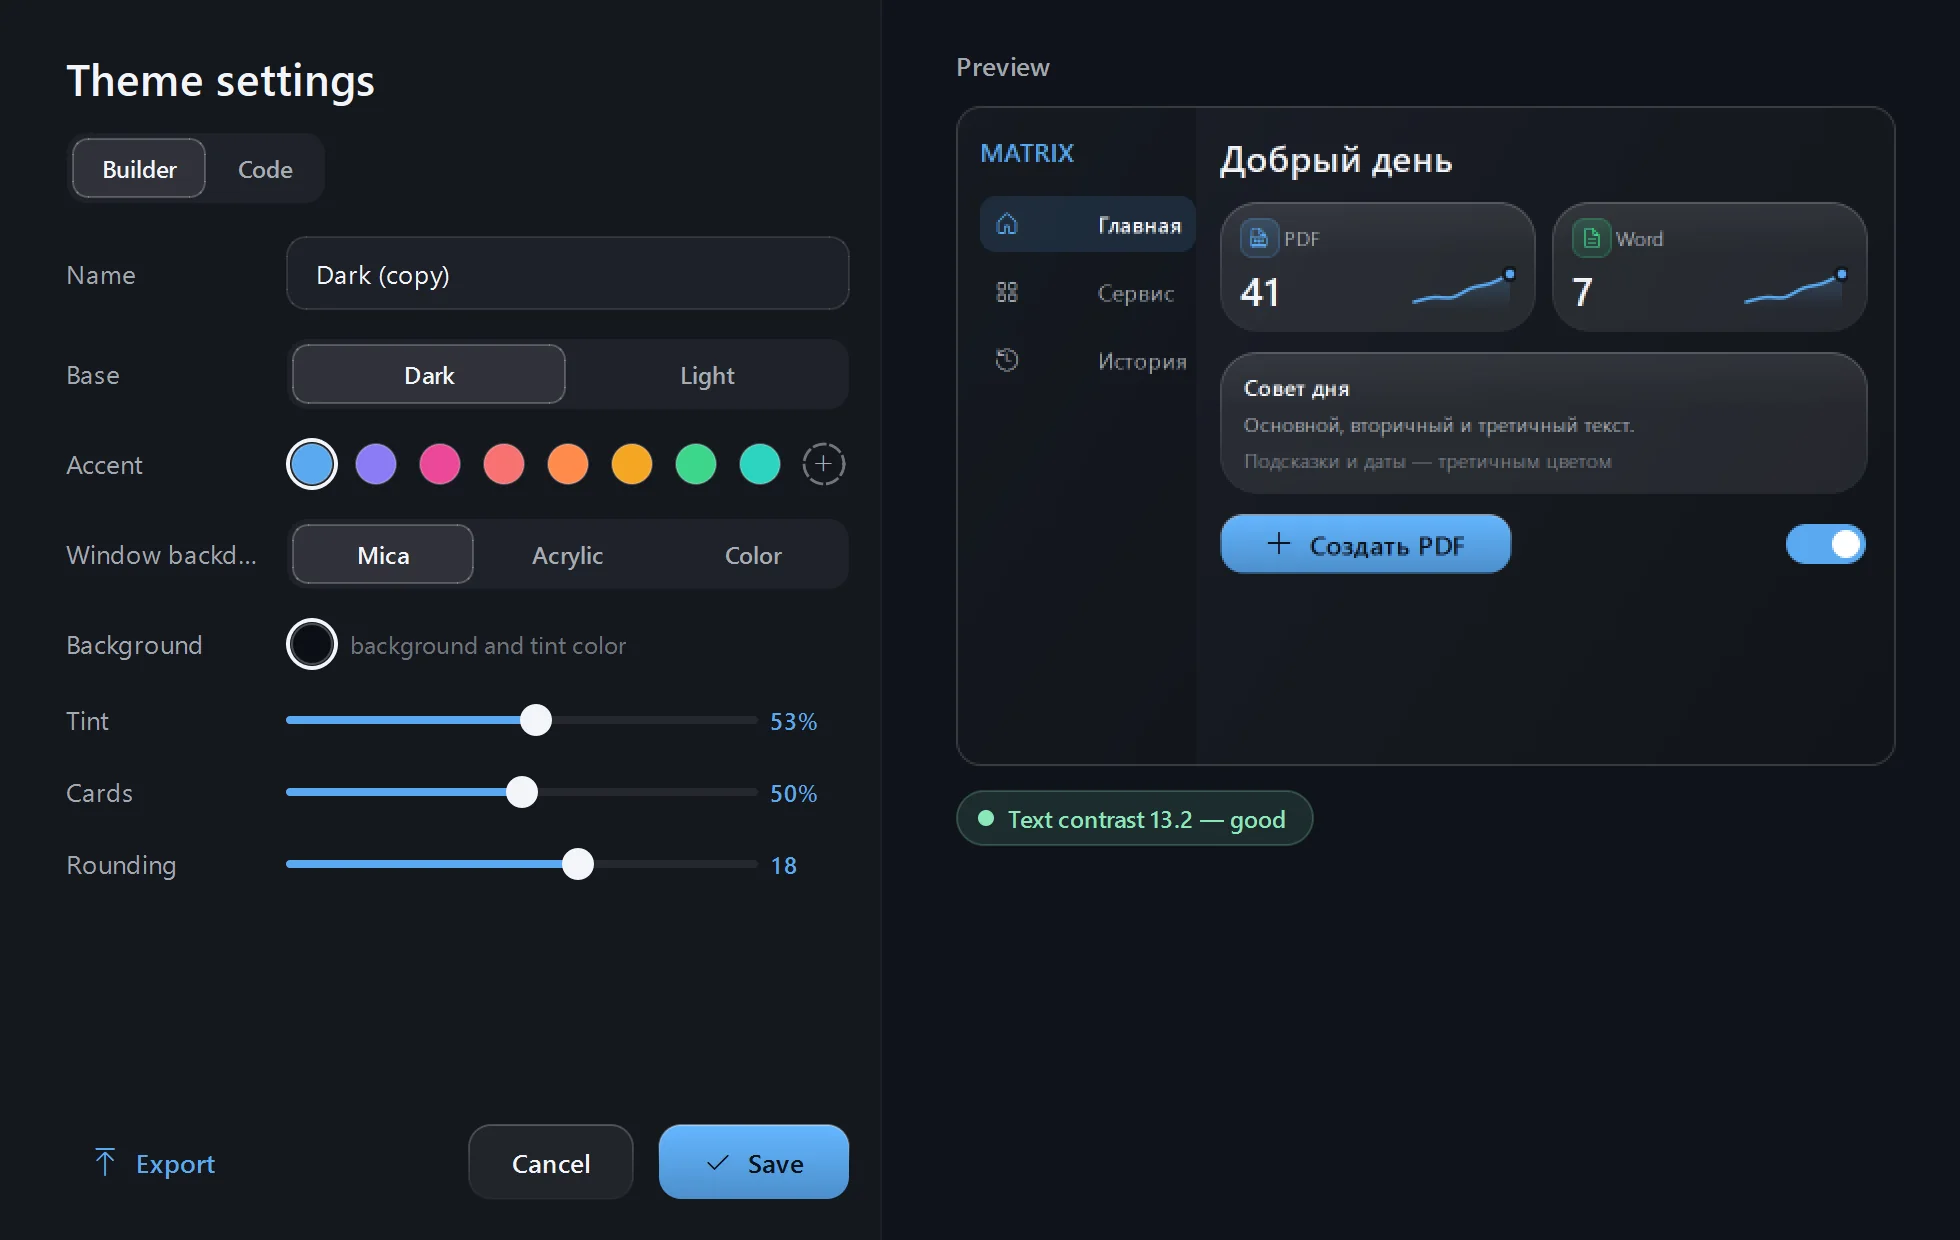
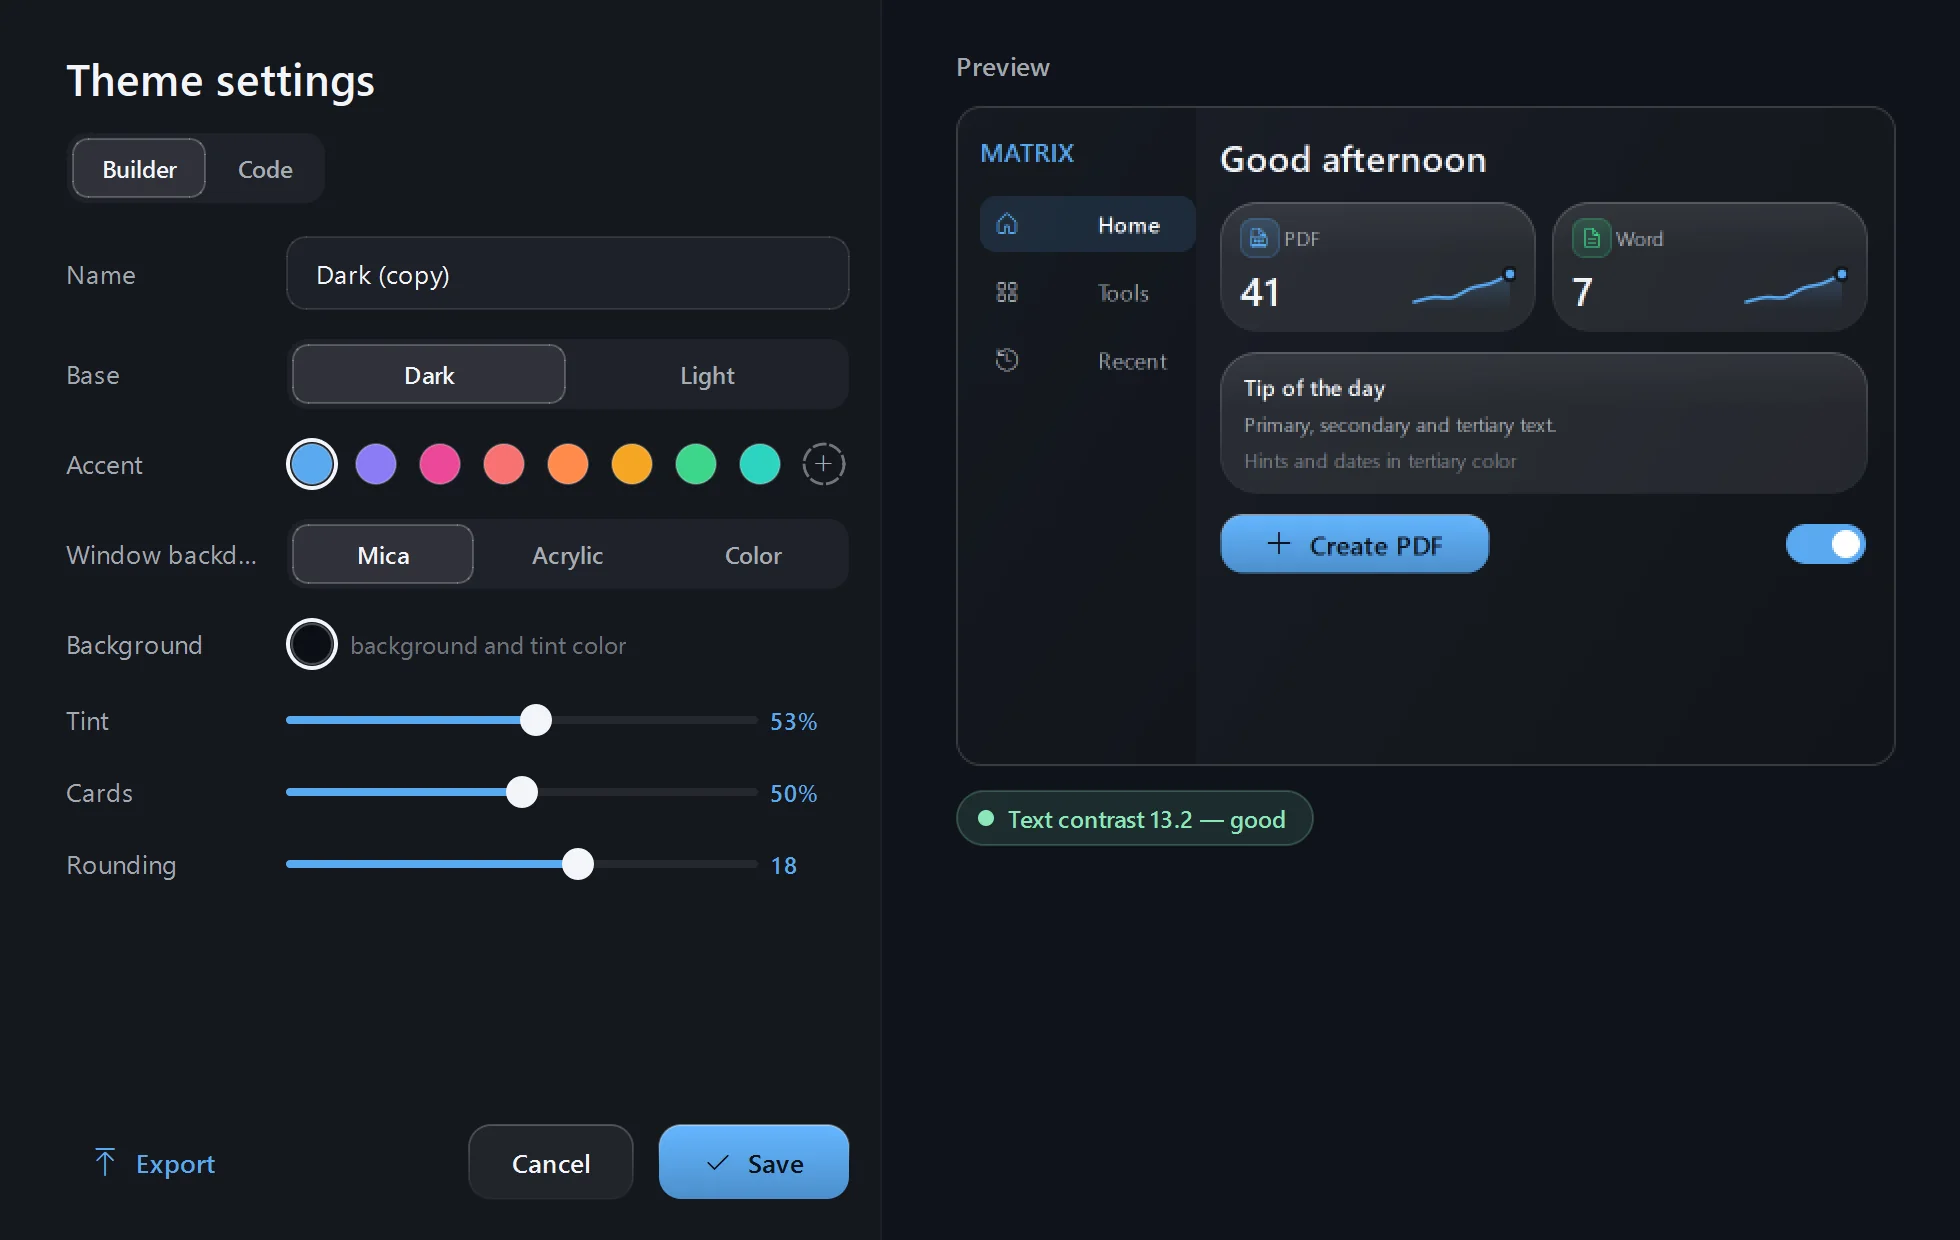
2029 - Правки по ревью

diff --git a/index.html b/index.html
@@ -75,26 +75,26 @@
   .menu-btn i::before { top: -5px; } .menu-btn i::after { top: 5px; }
 
   /* ---------- первый экран ---------- */
-  .hero { min-height: 100vh; display: flex; flex-direction: column; justify-content: center; padding: 120px var(--pad) 0; overflow-x: clip; }
-  .hero-content { position: relative; z-index: 2; }
+  .hero { min-height: 100vh; display: flex; flex-direction: column; padding: 120px var(--pad) 34px; overflow-x: clip; }
+  .hero-content { position: relative; z-index: 2; margin: auto 0; }
   .kicker { display: flex; align-items: center; flex-wrap: wrap; gap: 14px; margin-bottom: 34px; }
   .kicker .pulse { width: 7px; height: 7px; border-radius: 50%; background: #3DD68C; animation: pulse 2.4s infinite; }
   @keyframes pulse { 0% { box-shadow: 0 0 0 0 rgba(61,214,140,.45); } 70% { box-shadow: 0 0 0 10px rgba(61,214,140,0); } 100% { box-shadow: 0 0 0 0 rgba(61,214,140,0); } }
   .kicker .sep { width: 28px; height: 1px; background: var(--faint); }
-  h1.display { font-family: var(--display); font-weight: 400; font-size: clamp(44px, 8.4vw, 132px); line-height: 0.98; letter-spacing: -0.03em; }
+  h1.display { font-family: var(--display); font-weight: 400; font-size: clamp(40px, min(8.4vw, 14vh), 132px); line-height: 0.98; letter-spacing: -0.03em; }
   h1 .line { display: block; overflow: hidden; padding-bottom: 0.06em; }
   h1 .line > span { display: inline-block; }
   h1 .line.dim > span { color: transparent; -webkit-text-stroke: 1px rgba(242,245,250,.55); }
   .lead { max-width: 580px; margin-top: 34px; font-size: clamp(16px, 1.35vw, 19px); line-height: 1.6; color: var(--dim); }
   .lead strong { color: var(--text); font-weight: 500; }
   .cta { display: flex; gap: 14px; margin-top: 44px; flex-wrap: wrap; }
-  .hero-foot { position: absolute; z-index: 2; left: var(--pad); right: var(--pad); bottom: 34px; display: flex; justify-content: space-between; align-items: flex-end; gap: 20px; }
+  .hero-foot { position: relative; z-index: 2; margin-top: 48px; display: flex; justify-content: space-between; align-items: flex-end; gap: 20px; }
   .scroll-cue { display: flex; flex-direction: column; align-items: center; gap: 12px; }
   .scroll-cue i { width: 1px; height: 46px; background: linear-gradient(var(--text), transparent); animation: cue 2.2s ease-in-out infinite; transform-origin: top; }
   @keyframes cue { 0% { transform: scaleY(0); opacity: 0; } 30% { opacity: 1; } 100% { transform: scaleY(1); opacity: 0; } }
   .coords { text-align: right; line-height: 1.9; }
   /* планета: край с атмосферой; тело уходит в прозрачность, поэтому нигде не обрывается */
-  .planet-wrap { position: absolute; left: 0; right: 0; top: 84vh; height: 0; pointer-events: none; z-index: 0; }
+  .planet-wrap { position: absolute; left: 0; right: 0; top: calc(100% - 16vh); height: 0; pointer-events: none; z-index: 0; }
   .planet, .planet-glow { position: absolute; left: calc(50% - 120vw); top: 0; width: 240vw; height: 240vw; border-radius: 50%; }
   .planet-glow { box-shadow: 0 -16px 90px -12px rgba(90,169,240,.22), 0 -2px 26px -8px rgba(170,210,255,.28); }
   .planet {
@@ -116,7 +116,7 @@
   .launch { z-index: 2; min-height: 100vh; display: flex; flex-direction: column; align-items: center; justify-content: center; perspective: 1600px; padding: 10vh 6vw; }
   .launch .caption { text-align: center; margin-bottom: 4.5vh; }
   .launch h2 { font-family: var(--display); font-weight: 300; font-size: clamp(26px, 3.4vw, 52px); letter-spacing: -0.02em; margin-top: 16px; }
-  .launch .shot { width: min(1100px, 82vw); transform-style: preserve-3d; }
+  .launch .shot { width: min(1100px, 82vw, calc((100vh - 220px) * 1.5)); transform-style: preserve-3d; }
 
   /* ---------- телеметрия ---------- */
   .telemetry { padding: 18vh var(--pad) 16vh; }
@@ -199,7 +199,7 @@
   html.hstrip .gallery { height: 100vh; padding: 64px 0 0; display: flex; flex-direction: column; justify-content: center; }
   html.hstrip .gallery .section-head { margin-bottom: 40px; }
   html.hstrip .strip { overflow: visible; scroll-snap-type: none; padding-bottom: 0; }
-  html.hstrip .strip figure { width: min(860px, calc((100vh - 400px) * 1.5)); }
+  html.hstrip .strip figure { width: min(860px, max(360px, calc((100vh - 400px) * 1.5))); }
 
   /* ---------- журнал версий ---------- */
   .news { padding: 16vh var(--pad); }
@@ -250,11 +250,13 @@
     html.pinned .tags { margin-top: 14px; }
     html.pinned .f-shots { width: min(100%, calc((100vh - 380px) * 1.5)); justify-self: center; }
   }
-  @media (max-width: 900px) {
+  @media (max-width: 1024px) {
     .nav-links { display: none; }
     .menu-btn { display: inline-flex; }
     header.nav.open .nav-links { display: flex; position: fixed; top: 64px; left: 0; right: 0; flex-direction: column; gap: 0; background: rgba(2,3,6,.96); border-bottom: 1px solid var(--line); padding: 8px 4vw 18px; }
     header.nav.open .nav-links a { padding: 14px 0; font-size: 13px; }
+  }
+  @media (max-width: 900px) {
     .nav-right .btn { display: none; }
     .grid { grid-template-columns: 1fr 1fr; }
     .section-head { flex-direction: column; align-items: flex-start; }
@@ -296,7 +298,7 @@
 <main>
   <section class="hero" id="about">
     <div class="hero-content">
-      <div class="kicker mono"><span class="pulse"></span><span class="version-badge">v2.5.0</span><span class="sep"></span><span>Windows 10 / 11</span><span class="sep"></span><span data-i18n="hero-free">Бесплатно</span></div>
+      <div class="kicker mono"><span class="pulse"></span><span class="version-badge">v2.6.0</span><span class="sep"></span><span>Windows 10 / 11</span><span class="sep"></span><span data-i18n="hero-free">Бесплатно</span></div>
       <h1 class="display">
         <span class="line"><span data-i18n="hero-line1">Сканы в PDF.</span></span>
         <span class="line dim"><span data-i18n="hero-line2">Без облака.</span></span>
@@ -693,11 +695,14 @@ document.querySelectorAll('.glow').forEach(card => card.addEventListener('pointe
   const canvas = document.getElementById('space');
   const ctx = canvas.getContext('2d');
   const still = matchMedia('(prefers-reduced-motion: reduce)').matches || new URLSearchParams(location.search).has('still');
-  let W = 0, H = 0, layers = [], comets = [], last = performance.now();
+  let W = 0, H = 0, builtW = 0, builtArea = 0, layers = [], comets = [], last = performance.now();
+  SM.starBuilds = 0;
   let nextMeteor = 1.2, nextComet = 2.2, clock = 0;
   const rand = (a, b) => a + Math.random() * (b - a);
 
   function build() {
+    SM.starBuilds++;
+    builtW = W; builtArea = W * H;
     const area = (W * H) / 10000;
     layers = [
       { n: area * 1.5, r: [0.25, 0.7], a: [0.2, 0.55], k: 0.015 },
@@ -717,7 +722,8 @@ document.querySelectorAll('.glow').forEach(card => card.addEventListener('pointe
     canvas.width = W * dpr; canvas.height = H * dpr;
     canvas.style.width = W + 'px'; canvas.style.height = H + 'px';
     ctx.setTransform(dpr, 0, 0, dpr, 0, 0);
-    build();
+    // на телефонах высота меняется, когда прячется адресная строка: звёзды не перемешиваем
+    if (W !== builtW || Math.abs(W * H - builtArea) > builtArea * 0.25) build();
     if (still) draw();
   }
 
@@ -877,7 +883,7 @@ document.querySelectorAll('.glow').forEach(card => card.addEventListener('pointe
 
   // возможности: секция замирает, шаги и кадры сменяются (только на широких экранах)
   const mm = gsap.matchMedia();
-  mm.add('(min-width: 700px)', () => {
+  mm.add('(min-width: 700px) and (min-height: 600px)', () => {
     root.classList.add('pinned');
     const steps = gsap.utils.toArray('.f-step'), frames = gsap.utils.toArray('.f-frame');
     const nodes = gsap.utils.toArray('.rail .node'), themes = gsap.utils.toArray('.themes .shot');
@@ -1025,7 +1031,7 @@ document.querySelectorAll('.glow').forEach(card => card.addEventListener('pointe
 
   // лента экранов едет вбок, пока секция закреплена (широкие экраны)
   const mm = gsap.matchMedia();
-  mm.add('(min-width: 900px)', () => {
+  mm.add('(min-width: 900px) and (min-height: 600px)', () => {
     root.classList.add('hstrip');
     const distance = () => {
       const last = figures[figures.length - 1];

diff --git a/tests/check_site.py b/tests/check_site.py
@@ -2,12 +2,12 @@
 
 Без зависимостей. Код 0 и «OK» — всё в порядке; код 1 и список ошибок — нет.
 Следит за тем, на что опирается выпуск новых версий: значок версии, список
-возможностей feat-N, ссылка скачивания, тексты на обоих языках, картинки.
+возможностей feat-N, ссылка скачивания, тексты на обоих языках, картинки,
+первая запись истории версий. version.json не проверяет — его правит только выпуск.
 """
 
 import json
 import re
-import subprocess
 import sys
 from html.parser import HTMLParser
 from pathlib import Path
@@ -123,13 +123,12 @@ def check(root: Path = ROOT) -> list:
                           for f in ("date", "title", "text")))
             if not ok:
                 errors.append(f"запись releases неполная: {item}")
+        latest = releases[0].get("version") if releases and isinstance(releases[0], dict) else None
+        if len(page.badges) == 1 and latest != page.badges[0].lstrip("v"):
+            errors.append(f"первая запись releases ({latest}) не совпадает со значком {page.badges[0]} — "
+                          "при выпуске добавьте новую версию в начало массива releases")
     except ValueError as error:
         errors.append(f"JSON releases не разбирается: {error}")
-
-    diff = subprocess.run(["git", "diff", "--quiet", "origin/main", "--", "version.json"],
-                          cwd=root, capture_output=True)
-    if diff.returncode == 1:
-        errors.append("version.json изменён относительно origin/main — его правит только выпуск")
     return errors
 
 

diff --git a/tests/test_check_site.py b/tests/test_check_site.py
@@ -1,0 +1,57 @@
+"""Тесты проверки сайта: ловит поломки выпуска и не поднимает ложных тревог.
+
+Запуск: python -m pytest tests -q
+"""
+
+import re
+import shutil
+import sys
+from pathlib import Path
+
+sys.path.insert(0, str(Path(__file__).resolve().parent))
+
+from check_site import ROOT, check  # noqa: E402
+
+
+def site_copy(tmp_path: Path) -> Path:
+    """Копия сайта вне git-репозитория."""
+    target = tmp_path / "site"
+    shutil.copytree(ROOT, target, ignore=shutil.ignore_patterns(".git", ".superpowers", "__pycache__"))
+    return target
+
+
+def edit(site: Path, old: str, new: str) -> None:
+    page = site / "index.html"
+    text = page.read_text(encoding="utf-8")
+    assert old in text
+    page.write_text(text.replace(old, new, 1), encoding="utf-8")
+
+
+def badge(site: Path) -> str:
+    return re.search(r'class="version-badge">([^<]+)<', (site / "index.html").read_text(encoding="utf-8")).group(1)
+
+
+def test_current_site_passes():
+    assert check(ROOT) == []
+
+
+def test_copy_outside_git_raises_no_false_alarm(tmp_path):
+    assert check(site_copy(tmp_path)) == []
+
+
+def test_badge_must_match_latest_release(tmp_path):
+    site = site_copy(tmp_path)
+    edit(site, f'class="version-badge">{badge(site)}<', 'class="version-badge">v9.9.9<')
+    assert any("releases" in error and "9.9.9" in error for error in check(site))
+
+
+def test_missing_english_text_is_reported(tmp_path):
+    site = site_copy(tmp_path)
+    edit(site, '"final-button": "Download ScanMaster Pro",', "")
+    assert any("final-button" in error for error in check(site))
+
+
+def test_badge_suffix_is_reported(tmp_path):
+    site = site_copy(tmp_path)
+    edit(site, f'class="version-badge">{badge(site)}<', f'class="version-badge">{badge(site)} Stable<')
+    assert any("version-badge" in error for error in check(site))
